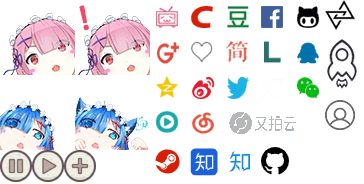
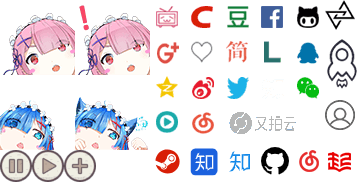
新添加网易云音乐和起点中文网

Changed region(s): [[0.8159, 0.8152, 0.967, 0.9511]]

diff --git a/assets/media/css/index.css b/assets/media/css/index.css
@@ -134,6 +134,16 @@
     background-position: -258px -144px
 }
 
+#wangyiyun{
+    background-image: url(../img/icons.png);
+    background-position: -291px -144px
+}
+
+#qidian{
+    background-image: url(../img/icons.png);
+    background-position: -322px -144px
+}
+
 .site-info {
     position: relative;
     padding: 2.5%;
